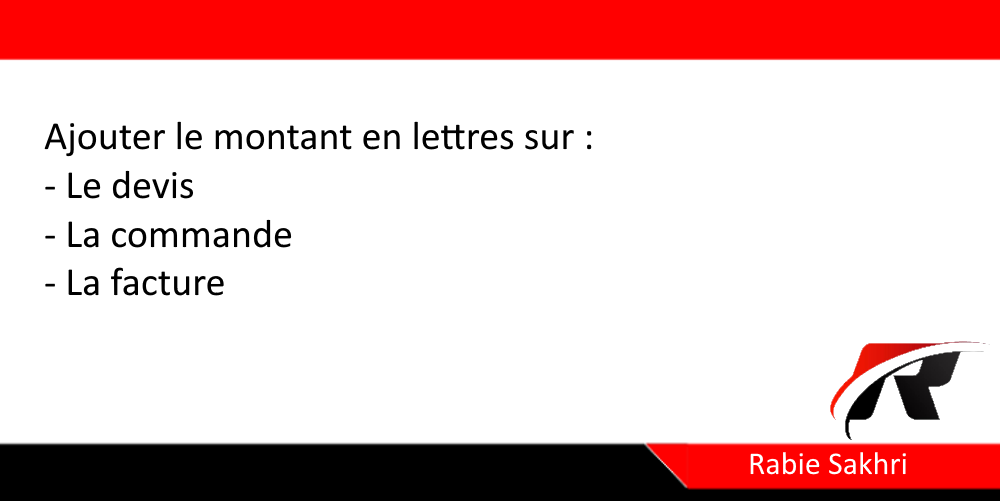
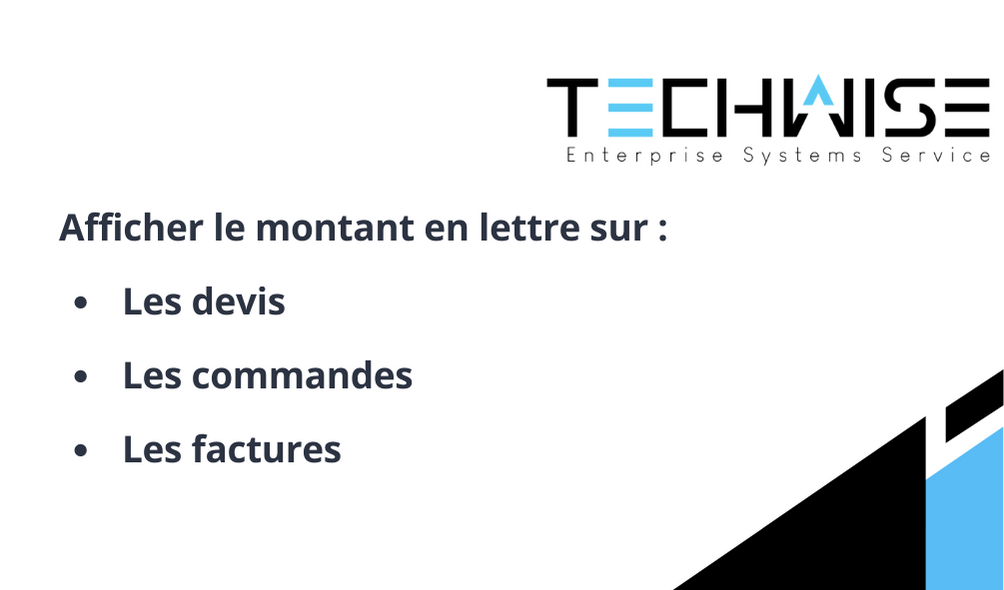
aaa

diff --git a/r_montant_en_lettre/static/description/index.html b/r_montant_en_lettre/static/description/index.html
@@ -26,8 +26,10 @@
         <h2 class="oe_slogan" style="margin-top:20px; margin-bottom: 0px;">Besoin de support ?</h2>
         <div class="oe_slogan" style="margin-top:10px !important;">
             <div style="margin-bottom: 4px;">
-                Contact moi <a href="mailto:sakhrirabie@gmail.com">sakhrirabie@gmail.com</a> pour le support, query and
-                further customizations.
+                Contact nous <a href="mailto:r.sakhri@techwise-dz.com">r.sakhri@techwise-dz.com</a> pour le support, query and further customizations.
+            </div>
+            <div style="margin-bottom: 4px;">
+                Contact nous <a href="mailto:m.mohammedi@techwise-dz.com">m.mohammedi@techwise-dz.com</a> pour le support, query and further customizations.
             </div>
             <div class="text-center">
                 <img style="display:inline-block;" class="oe_picture oe_screenshot" src="./RS.png">

diff --git a/r_montant_en_lettre/__manifest__.py b/r_montant_en_lettre/__manifest__.py
@@ -2,11 +2,11 @@
 {
     'name': 'Afficher le montant en lettre au niveau des les devis, les factures et les bons de commande achat ',
     'version': '15.0.0.0',
-    'author': 'Rabie Sakhri',
     'summary': 'Afficher le montant en lettre dans les devis, les factures et les bons de commande achat, à la fois dans les formulaires et les rapports',
     'description': """Ce module affiche le montant total en lettre dans les devis, les factures et les bons de commande, à la fois dans les formulaires et les rapports.""",
     'category': 'Sales',
-    'website': '',
+    'author': 'Tech Wise Advisors',
+    'website': 'https://techwise-dz.com',
     'license': 'AGPL-3',
     'price': 0.0,
     'currency': 'USD',
